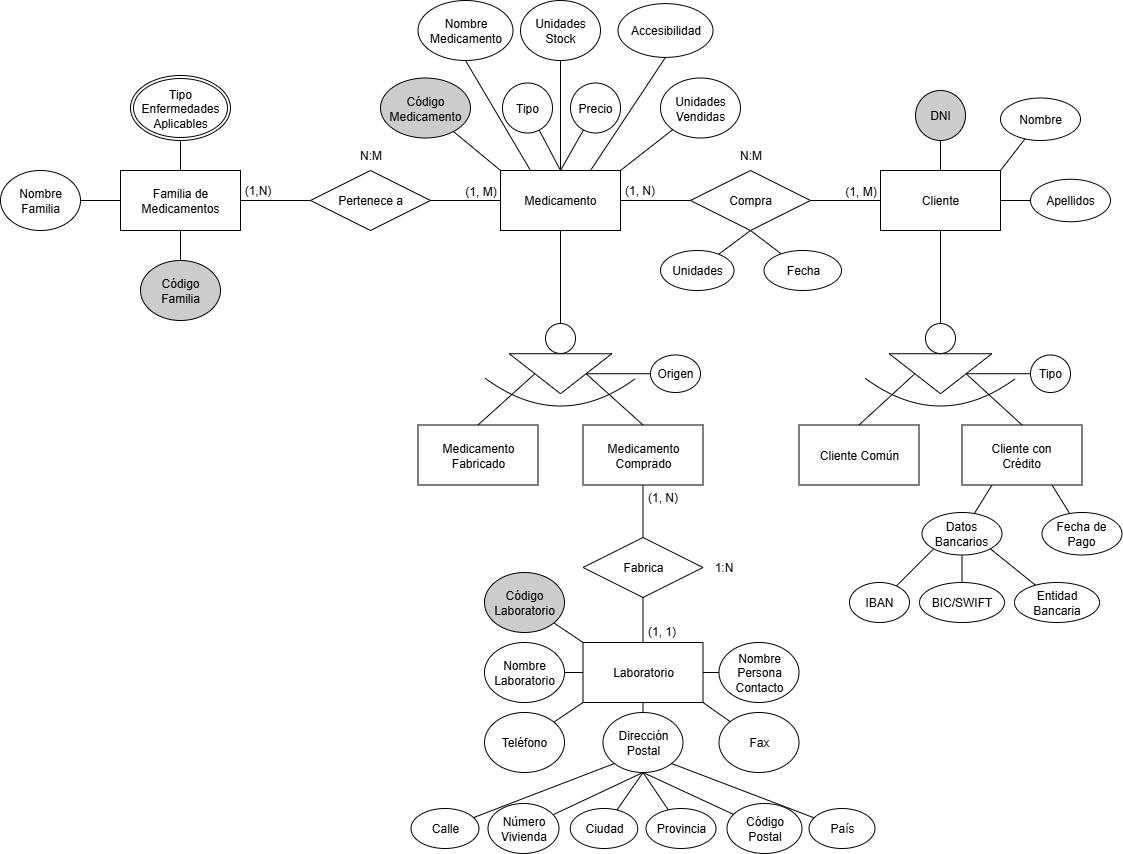
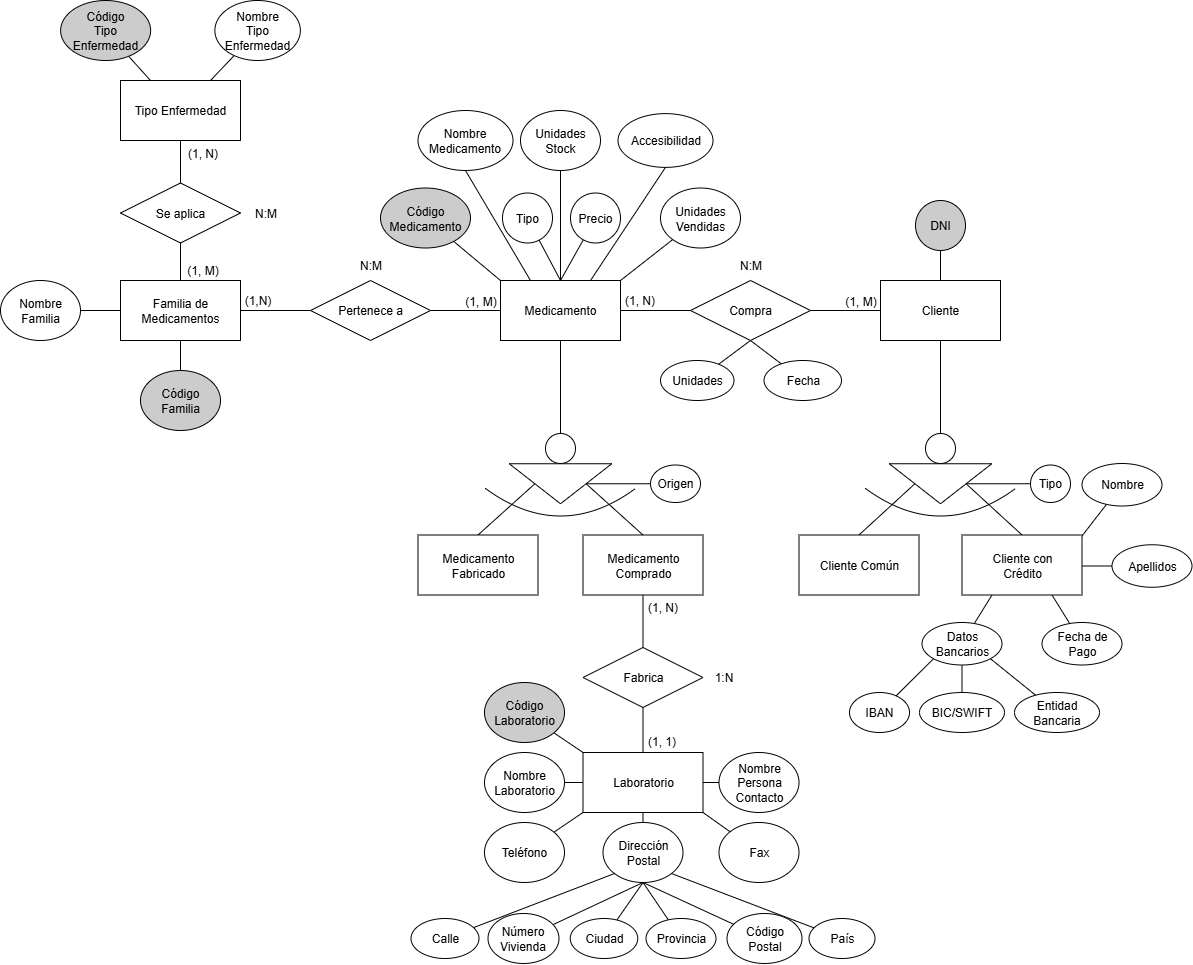
Cambios en el modelo

diff --git a/README.md b/README.md
@@ -9,6 +9,7 @@
   - **Medicamento Fabricado:** producto farmacéutico fabricado por la propia farmacia.
   - **Medicamento Comprado:** producto farmacéutico comprado a terceros (laboratorios).
 - **Familia de Medicamentos:** familia que agrupa medicamentos con características comunes.
+- **Tipo Enfermedad:** representa una categoría o clasificación de enfermedades dentro del sistema de la farmacia.
 - **Laboratorio:** empresa fabricante de medicamentos.
 - **Cliente:** persona que realiza compras en la farmacia.
   - **Cliente Común:** cliente que no tiene trato especial en cuanto a pagos (cuando compra un medicamento, lo paga al instante).
@@ -55,8 +56,14 @@
   - **Dominio:** cadena de texto de longitud variable.
   - **Ejemplos:** `Analgésicos`, `Antibióticos`.
 
-- **Tipo Enfermedades Aplicables:** tipo de enfermedades a las que dicha familia de medicamentos se aplica.
-  - **Dominio:** cadena de texto de longitud variable, pudiendo ser multivaluado.
+### Tipo Enfermedad
+
+- **Código Tipo Enfermedad:** identificador único para cada tipo de enfermedad.
+  - **Dominio:** cadena alfanumérica de longitud fija o variable, sin repeticiones.
+  - **Ejemplos:** `TE001`, `TE002`.
+
+- **Nombre Tipo Enfermedad:** nombre descriptivo de la categoría de enfermedad.
+  - **Dominio:** cadena de texto de longitud variable.
   - **Ejemplos:** `Infecciones bacterianas`, `Hipertensión`.
 
 ### Laboratorio
@@ -91,6 +98,8 @@
   - **Dominio:** cadena alfanumérica de formato nacional.
   - **Ejemplos:** `12345678A`, `73191185F`.
 
+### Cliente con Crédito
+
 - **Nombre:** nombre de pila del cliente.
   - **Dominio:** cadena de texto de longitud variable.
   - **Ejemplos:** `Ana`, `Pablo`.
@@ -98,8 +107,6 @@
 - **Apellidos:** apellidos del cliente.
   - **Dominio:** cadena de texto de longitud variable.
   - **Ejemplos:** `García Pérez`, `Torres Fuentes`.
-
-### Cliente con Crédito
 
 - **Datos Bancarios:**
   - **IBAN:** código internacional de la cuenta bancaria del cliente.
@@ -159,3 +166,7 @@ La relación **Pertenece a** relaciona un medicamento con la familia de medicame
 ### Medicamento - Cliente
 
 La relación **Compra** relaciona un cliente con el medicamento que adquiere mediante una compra. Un cliente puede comprar varios medicamentos (mínimo un medicamento ha de haber adquirido para tener el registro), y un medicamento puede ser comprado por varios clientes (mínimo ha de ser comprado por un cliente para que esta relación tenga sentido). Cardinalidad `N:M`.
+
+### Familia de Medicamentos - Tipo Enfermedad
+
+La relación **Se aplica** relaciona una familia de medicamentos con el tipo de enfermedad sobre la que se aplica. Una familia de medicamentos se puede usar para varios tipos de enfermedad y un tipo de enfermedad puede ser combatida por varias familias de medicamentos. Cardinalidad `N:M`.
